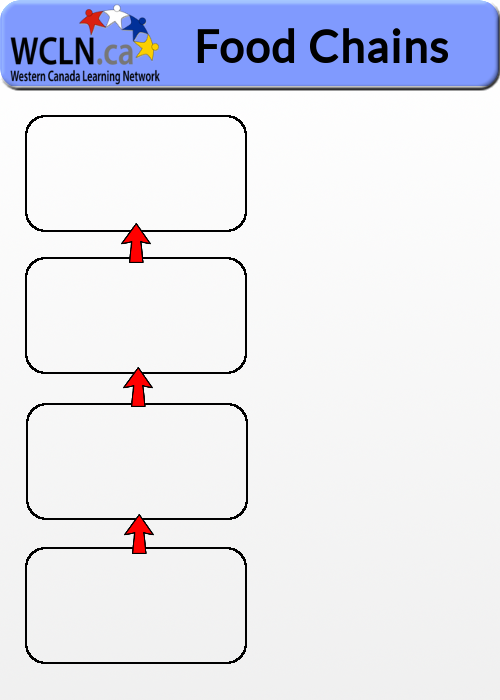
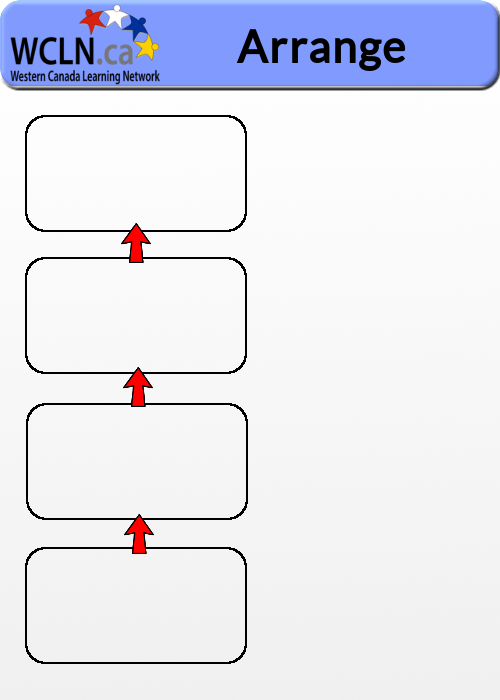
changed to generic version arrange

Changed region(s): [[0.39, 0.03, 0.9, 0.12]]

diff --git a/foodchains.html b/foodchains.html
@@ -1,0 +1,29 @@
+<!DOCTYPE html>
+<html>
+<head>
+	<title>BCLN - Quiz</title>
+	<meta charset="utf-8"/>
+	<link rel="stylesheet" type="text/css" href="https://fonts.googleapis.com/css?family=Lato"><!-- google web font -->
+	<link rel="stylesheet" type="text/css" href="style/style.css"/>
+	<link rel="shortcut icon" href="images/favicon.ico"/>
+	<script src="http://bclearningnetwork.com/lib/jquery/jquery-3.1.0.min.js"></script>
+	<script src="http://bclearningnetwork.com/lib/createjs/createjs-2015.11.26.min.js"></script><!-- CreateJS library hosted on BCLN server -->
+	<script>
+
+	// CHANGE THIS VARIABLE TO THE DESIRED SUB FOLDER NAME
+	var SUB_FOLDER = "foodchains";
+
+	</script>
+	<script src="lib/ndgmr.Collision.js"></script>
+	<script type="text/javascript" src="helper.js"></script><!-- contains helper functions which do not call functions in balloon.js -->
+	<script type="text/javascript" src="arrange.js"></script><!-- the main game JS file -->
+</head>
+<body onload="init();"><!-- body onload calls function to initialize game -->
+
+	<canvas id="gameCanvas" width="500" height="700">
+		<!-- game will be rendered here -->
+	</canvas>
+	
+	<button id="mute" onClick="toggleMute()"><img style="width:16px; height:16px;" src="images/unmute.png"></img></button>
+</body>
+</html>

diff --git a/electromag.html b/electromag.html
@@ -11,12 +11,12 @@
 	<script>
 
 	// CHANGE THIS VARIABLE TO THE DESIRED SUB FOLDER NAME
-	var SUB_FOLDER = "test";
+	var SUB_FOLDER = "electromag";
 
 	</script>
 	<script src="lib/ndgmr.Collision.js"></script>
 	<script type="text/javascript" src="helper.js"></script><!-- contains helper functions which do not call functions in balloon.js -->
-	<script type="text/javascript" src="foodchains.js"></script><!-- the main game JS file -->
+	<script type="text/javascript" src="arrange.js"></script><!-- the main game JS file -->
 </head>
 <body onload="init();"><!-- body onload calls function to initialize game -->
 
